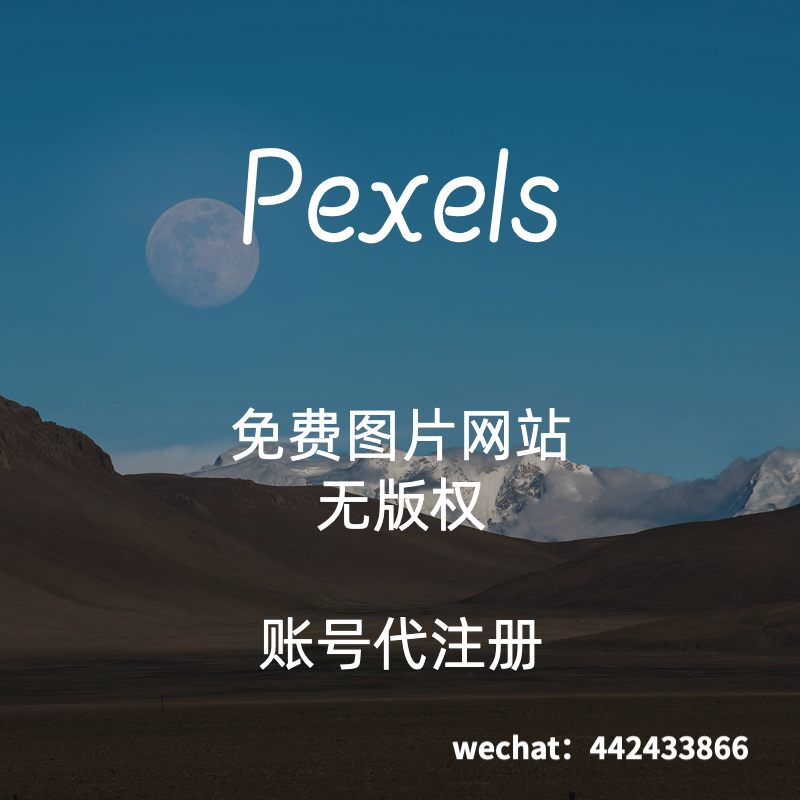
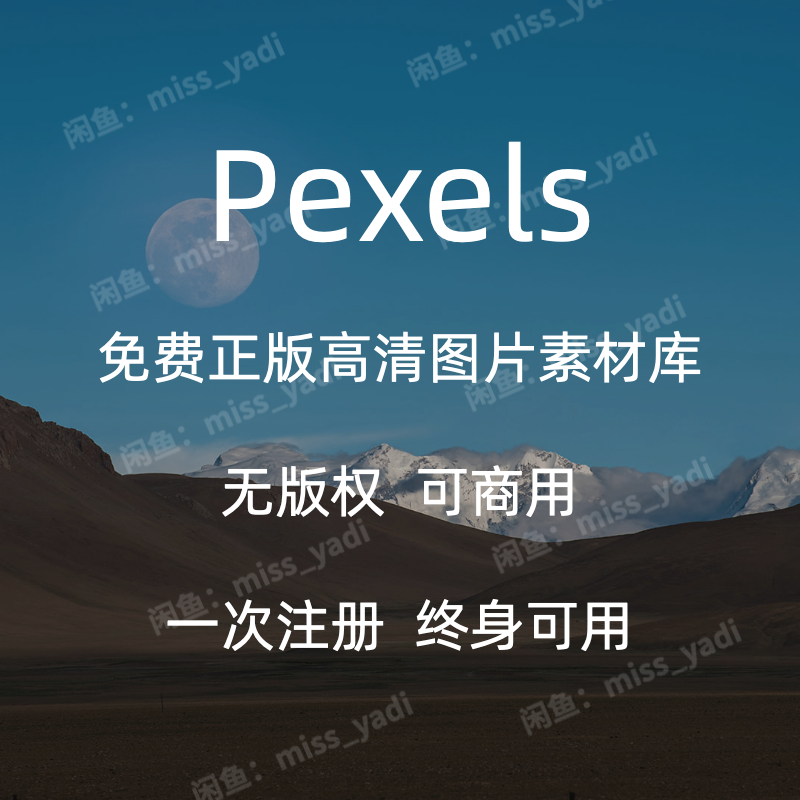
fix

diff --git a/hexoSource/public/2019/12/02/Pexels/index.html b/hexoSource/public/2019/12/02/Pexels/index.html
@@ -5,7 +5,7 @@
   <meta name="viewport" content="width=device-width, initial-scale=1.0, minimum-scale=1.0, maximum-scale=1.0, user-scalable=yes">
   
   
-  <title>  Pexels注册报错 |   Yadea&#39;s Blog </title>
+  <title>  Pexels/Pixabay/Unsplash注册验证失败 |   Yadea&#39;s Blog </title>
 
  
   
@@ -88,7 +88,7 @@
 	
 <div class="header">
 		<p class="title">	
-			Pexels注册报错
+			Pexels/Pixabay/Unsplash注册验证失败
 		</p>
 		<div class="info">	
 			<time>
@@ -98,7 +98,7 @@
 			
 			
 				<i class="iconfont icon-words"></i>
-				<span class="words">545
+				<span class="words">657
 				</span>
 			
 		</div>
@@ -131,8 +131,8 @@
 		
 
 			
-					<p>Pexels是一个图片网站，里面的图片都是免费无版权的，数量也很丰富，可以随意使用。如果你想给你的文章找一张配图的话，Pexels是最好的选择。</p>
-<p><a href="https://www.pexels.com/" target="_blank" rel="noopener">https://www.pexels.com/</a></p>
+					<p>Pexels/Pixabay/Unsplash是一个图片网站，里面的图片都是免费无版权的，数量也很丰富，可以随意使用。如果你想给你的文章找一张配图的话，这几个网站是最好的选择。</p>
+<p><a href="https://www.pexels.com/" target="_blank" rel="noopener">https://www.pexels.com/</a><br><a href="https://unsplash.com/" target="_blank" rel="noopener">https://unsplash.com/</a><br><a href="https://pixabay.com/" target="_blank" rel="noopener">https://pixabay.com/</a></p>
 <p>它是一个国外网站，但在国内可以照常访问，速度也很快，都是高清大图。</p>
 <p>如果你想要收藏/点赞/下载，网站会提示先登录。登录后会保存你的下载记录和收藏记录，看到好看的图片可以先收藏，有需要的时候再下载。</p>
 <p>如果有账号直接登录即可，特别说明一下注册的流程。</p>
@@ -145,10 +145,10 @@
 <p>换一个邮箱试试，如果还不行就需要用国外网络进行注册。我是这种办法成功的。</p>
 <p>应该是Pexels在国内只能登录不能注册，需要用国外网络进行注册后再登录。登录时不限制网络环境。</p>
 <p>有需要的朋友可以联系我代注册，提供邮箱和用户名即可。（有偿服务，闲鱼交易）</p>
+<p>（辛辛苦苦做的图被盗了，只好加上一层水印，真难。有需要的加我微信吧：442433866，备注【博客代注册】就行</p>
 <img src="pexels.png" width="200">
 <img src="pixabay.png" width="200">
-<img src="unsplash.png" width="200">
-<img src="IMG_0488.JPG" width="400" ">  	
+<img src="unsplash.png" width="200">  	
 					
 	  </div>     
 	  
@@ -265,7 +265,7 @@
      <div class="mobile-menu">      
 
       
-      <img class="mobile-menu-icon lazyload" src="/images/placeholder.png" data-src="/images/favicon.jpg">  
+      <img class="mobile-menu-icon" src="/images/favicon.jpg">  
       
 
          

diff --git a/hexoSource/public/index.html b/hexoSource/public/index.html
@@ -227,7 +227,7 @@
 	   
 	<div class="article-header">
 	    
-		<a class="title" href="/2019/12/02/Pexels/">Pexels注册报错</a>  
+		<a class="title" href="/2019/12/02/Pexels/">Pexels/Pixabay/Unsplash注册验证失败</a>  
 	       
 		 
 
@@ -242,8 +242,8 @@
     
 	<div class="typo article-excerpt">	
 		 
-			<p>Pexels是一个图片网站，里面的图片都是免费无版权的，数量也很丰富，可以随意使用。如果你想给你的文章找一张配图的话，Pexels是最好的选择。</p>
-<p><a href="https://www.pexels.com/" target="_blank" rel="noopener">https://www.pexels.com/</a></p>
+			<p>Pexels/Pixabay/Unsplash是一个图片网站，里面的图片都是免费无版权的，数量也很丰富，可以随意使用。如果你想给你的文章找一张配图的话，这几个网站是最好的选择。</p>
+<p><a href="https://www.pexels.com/" target="_blank" rel="noopener">https://www.pexels.com/</a><br><a href="https://unsplash.com/" target="_blank" rel="noopener">https://unsplash.com/</a><br><a href="https://pixabay.com/" target="_blank" rel="noopener">https://pixabay.com/</a></p>
 <p>它是一个国外网站，但在国内可以照常访问，速度也很快，都是高清大图。</p>
 <p>如果你想要收藏/点赞/下载，网站会提示先登录。登录后会保存你的下载记录和收藏记录，看到好看的图片可以先收藏，有需要的时候再下载。</p>
 <p>如果有账号直接登录即可，特别说明一下注册的流程。</p>
@@ -256,10 +256,10 @@
 <p>换一个邮箱试试，如果还不行就需要用国外网络进行注册。我是这种办法成功的。</p>
 <p>应该是Pexels在国内只能登录不能注册，需要用国外网络进行注册后再登录。登录时不限制网络环境。</p>
 <p>有需要的朋友可以联系我代注册，提供邮箱和用户名即可。（有偿服务，闲鱼交易）</p>
+<p>（辛辛苦苦做的图被盗了，只好加上一层水印，真难。有需要的加我微信吧：442433866，备注【博客代注册】就行</p>
 <img src="/images/placeholder.png" width="200" data-src="pexels.png" class="lazyload">
 <img src="/images/placeholder.png" width="200" data-src="pixabay.png" class="lazyload">
 <img src="/images/placeholder.png" width="200" data-src="unsplash.png" class="lazyload">
-<img src="/images/placeholder.png" width="400" " data-src="IMG_0488.JPG" class="lazyload">
 		  	  
 	</div>
 

diff --git a/hexoSource/public/archives/2019/12/index.html b/hexoSource/public/archives/2019/12/index.html
@@ -125,7 +125,7 @@
       
       <li class="archive-item">
         <time class="time"> 12月 2日 </time>
-        <span class="title"> <a href="/2019/12/02/Pexels/">Pexels注册报错</a></span>
+        <span class="title"> <a href="/2019/12/02/Pexels/">Pexels/Pixabay/Unsplash注册验证失败</a></span>
       </li>
 
       

diff --git a/hexoSource/public/archives/2019/index.html b/hexoSource/public/archives/2019/index.html
@@ -125,7 +125,7 @@
       
       <li class="archive-item">
         <time class="time"> 12月 2日 </time>
-        <span class="title"> <a href="/2019/12/02/Pexels/">Pexels注册报错</a></span>
+        <span class="title"> <a href="/2019/12/02/Pexels/">Pexels/Pixabay/Unsplash注册验证失败</a></span>
       </li>
 
       

diff --git a/hexoSource/public/archives/index.html b/hexoSource/public/archives/index.html
@@ -144,7 +144,7 @@
       
       <li class="archive-item">
         <time class="time"> 12月 2日 </time>
-        <span class="title"> <a href="/2019/12/02/Pexels/">Pexels注册报错</a></span>
+        <span class="title"> <a href="/2019/12/02/Pexels/">Pexels/Pixabay/Unsplash注册验证失败</a></span>
       </li>
 
       

diff --git a/hexoSource/public/tags/Design/index.html b/hexoSource/public/tags/Design/index.html
@@ -109,7 +109,7 @@
 
         <time class="time"> 2019-12-02</time>    
 
-        <a class="title" href="/2019/12/02/Pexels/">Pexels注册报错</a>
+        <a class="title" href="/2019/12/02/Pexels/">Pexels/Pixabay/Unsplash注册验证失败</a>
 
       </article>
 

diff --git a/hexoSource/public/tags/Photo/index.html b/hexoSource/public/tags/Photo/index.html
@@ -109,7 +109,7 @@
 
         <time class="time"> 2019-12-02</time>    
 
-        <a class="title" href="/2019/12/02/Pexels/">Pexels注册报错</a>
+        <a class="title" href="/2019/12/02/Pexels/">Pexels/Pixabay/Unsplash注册验证失败</a>
 
       </article>
 

diff --git a/hexoSource/public/2019/11/23/2020/index.html b/hexoSource/public/2019/11/23/2020/index.html
@@ -224,7 +224,7 @@
         <strong class="caption">newer</strong>
         
         <span class="title">
-          Pexels注册报错
+          Pexels/Pixabay/Unsplash注册验证失败
         </span>
       </a>
       

diff --git a/hexoSource/public/2019/12/17/universallink/index.html b/hexoSource/public/2019/12/17/universallink/index.html
@@ -219,7 +219,7 @@
         <strong class="caption">older</strong>
         
         <span class="title">
-          Pexels注册报错
+          Pexels/Pixabay/Unsplash注册验证失败
         </span>
       </a>
       

diff --git a/hexoSource/source/_posts/Pexels.md b/hexoSource/source/_posts/Pexels.md
@@ -1,12 +1,14 @@
 ---
-title: Pexels注册报错
+title: Pexels/Pixabay/Unsplash注册验证失败
 date: 2019-12-02 15:39:32
 tags: [Design, Photo]
 ---
 
-Pexels是一个图片网站，里面的图片都是免费无版权的，数量也很丰富，可以随意使用。如果你想给你的文章找一张配图的话，Pexels是最好的选择。
+Pexels/Pixabay/Unsplash是一个图片网站，里面的图片都是免费无版权的，数量也很丰富，可以随意使用。如果你想给你的文章找一张配图的话，这几个网站是最好的选择。
 
 [https://www.pexels.com/](https://www.pexels.com/)
+[https://unsplash.com/](https://unsplash.com/)
+[https://pixabay.com/](https://pixabay.com/)
 
 它是一个国外网站，但在国内可以照常访问，速度也很快，都是高清大图。
 
@@ -33,7 +35,8 @@ Please try again. Your captcha couldn't be validated. If this happens again plea
 
 有需要的朋友可以联系我代注册，提供邮箱和用户名即可。（有偿服务，闲鱼交易）
 
+（辛辛苦苦做的图被盗了，只好加上一层水印，真难。有需要的加我微信吧：442433866，备注【博客代注册】就行
+
 <img src="pexels.png" width="200" />
 <img src="pixabay.png" width="200" />
 <img src="unsplash.png" width="200" />
-<img src="IMG_0488.JPG" width=400" />
